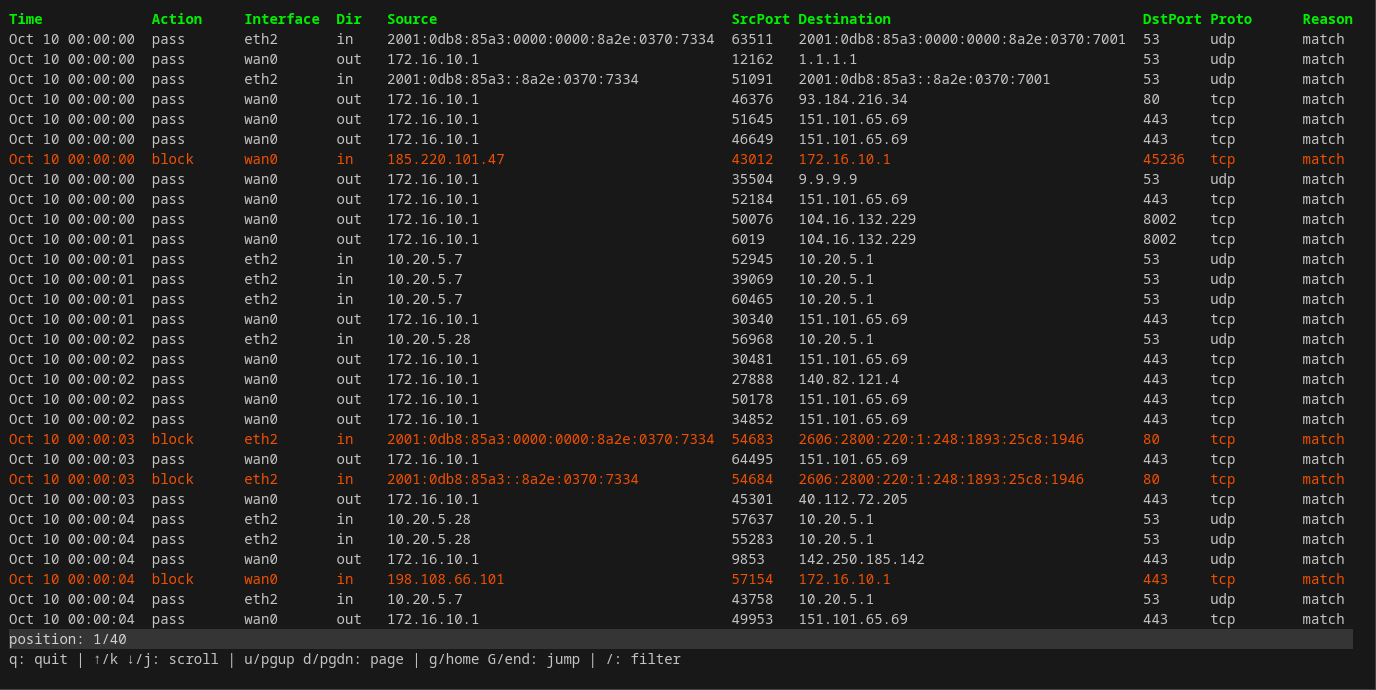
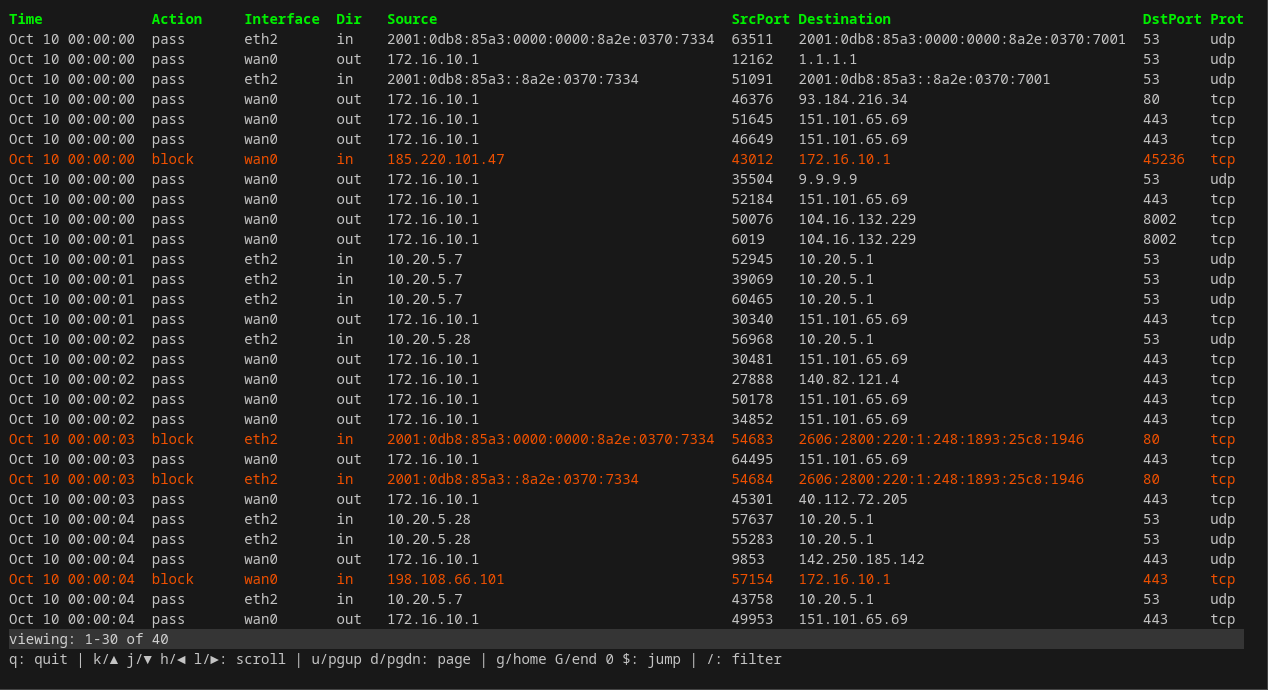
docs: document horizontal scrolling and ip version filtering
update screenshot

diff --git a/README.md b/README.md
@@ -61,10 +61,12 @@ opnsense-filterlog -h
 
 Once inside the TUI, you can navigate using:
 
-- **`k`** or **`↑`** / **`u`** or **`PgUp`** - Scroll up (line / page)
-- **`j`** or **`↓`** / **`d`** or **`PgDn`** - Scroll down (line / page)
-- **`g`** or **`Home`** - Jump to top
-- **`G`** or **`End`** - Jump to bottom
+- **`k`** or **`▲`** / **`g`** or **`Home`** - Scroll/jump up
+- **`j`** or **`▼`** / **`G`** or **`End`** - Scroll/jump down
+- **`h`** or **`◄`** / **`0`** - Scroll/jump left
+- **`l`** or **`►`** / **`$`** - Scroll/jump right
+- **`u`** or **`PgUp`** - Page up
+- **`d`** or **`PgDn`** - Page down
 - **`/`** - Enter filter/search mode
 - **`q`** - Quit
 
@@ -90,16 +92,17 @@ Available fields:
 
 | Field | Aliases | Description |
 |-------|---------|-------------|
-| `source` | `src` | Source IP address |
+| `action` | - | Action (block, pass, etc.) |
+| `direction` | `dir` | Direction (in, out, etc.) |
 | `destination` | `dst`, `dest` | Destination IP address |
+| `interface` | `iface` | Network interface |
+| `ipversion` | `ip`, `ipver` | IP version (4 or 6) |
 | `port` | - | Either source or destination port |
 | `srcport` | `sport` | Source port |
 | `dstport` | `dport` | Destination port |
 | `protocol` | `proto` | Protocol (tcp, udp, icmp, etc.) |
-| `action` | - | Action (block, pass, etc.) |
-| `interface` | `iface` | Network interface |
 | `reason` | - | Reason (match, fragment, etc.) |
-| `direction` | `dir` | Direction (in, out, in/out) |
+| `source` | `src` | Source IP address |
 
 Examples:
 
@@ -108,6 +111,7 @@ src 192.168.1.1
 dst 10.0.0.1
 action block
 proto tcp
+ip 4
 port 443
 iface eth0
 ```
